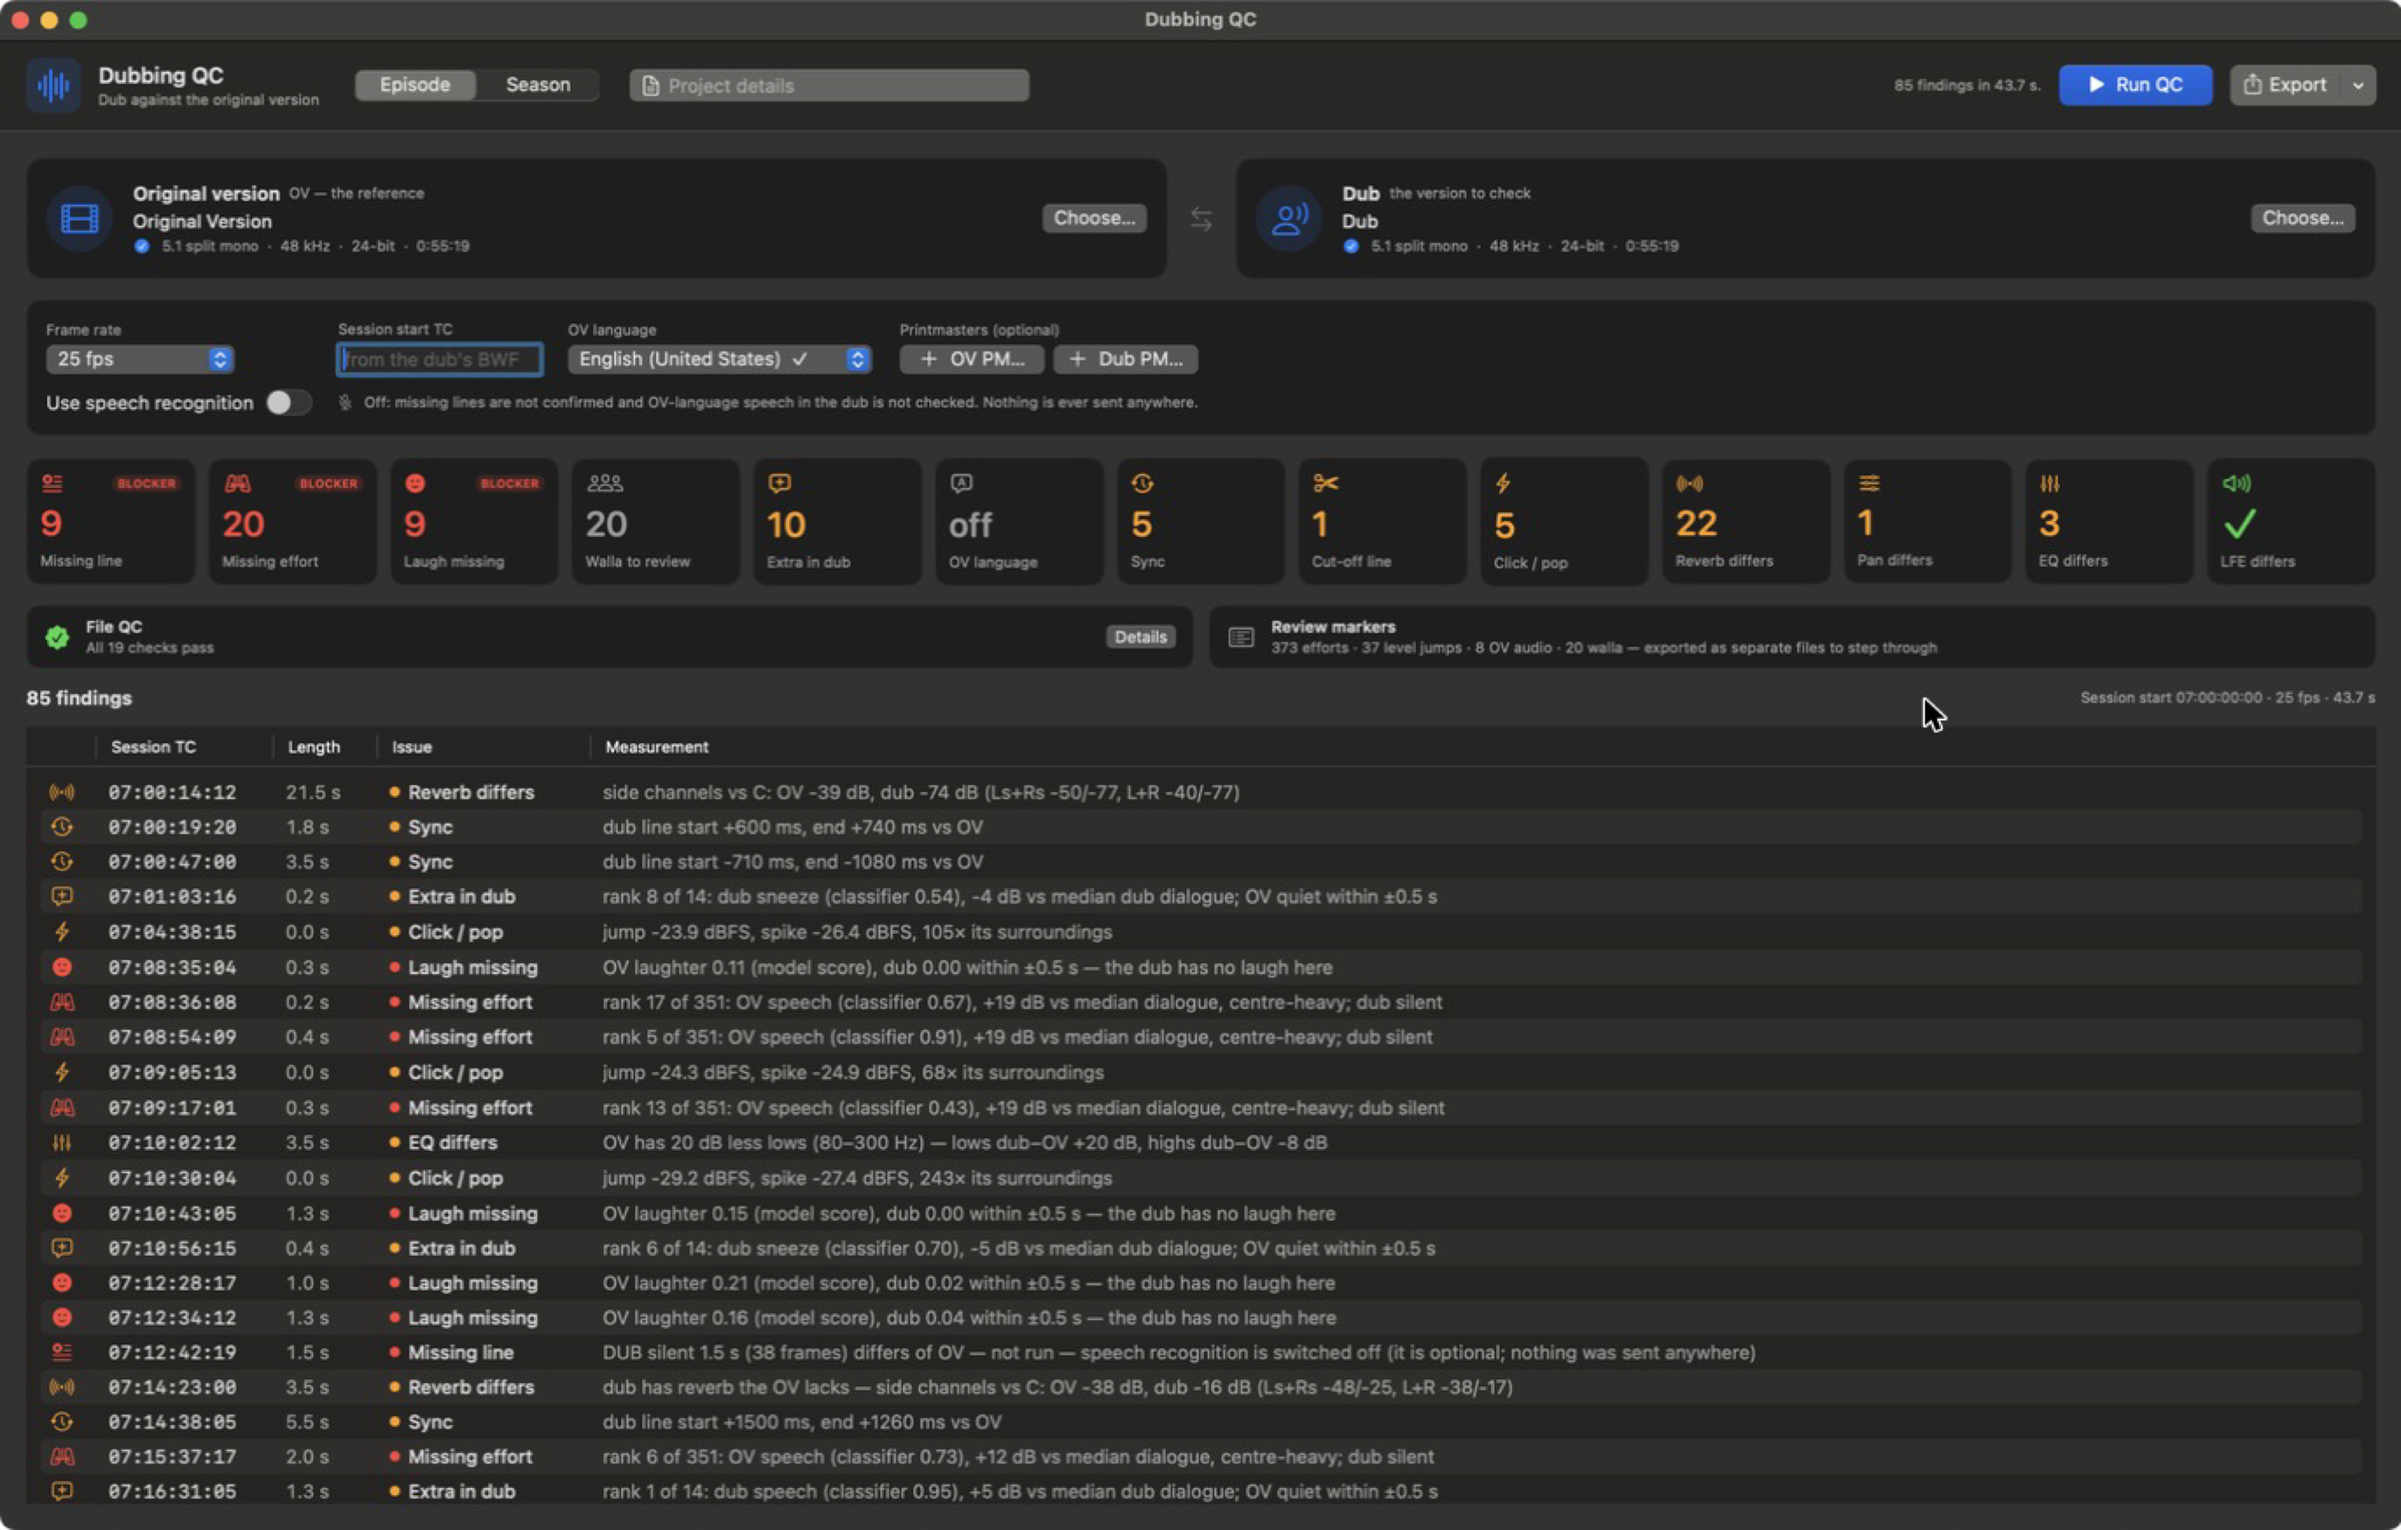
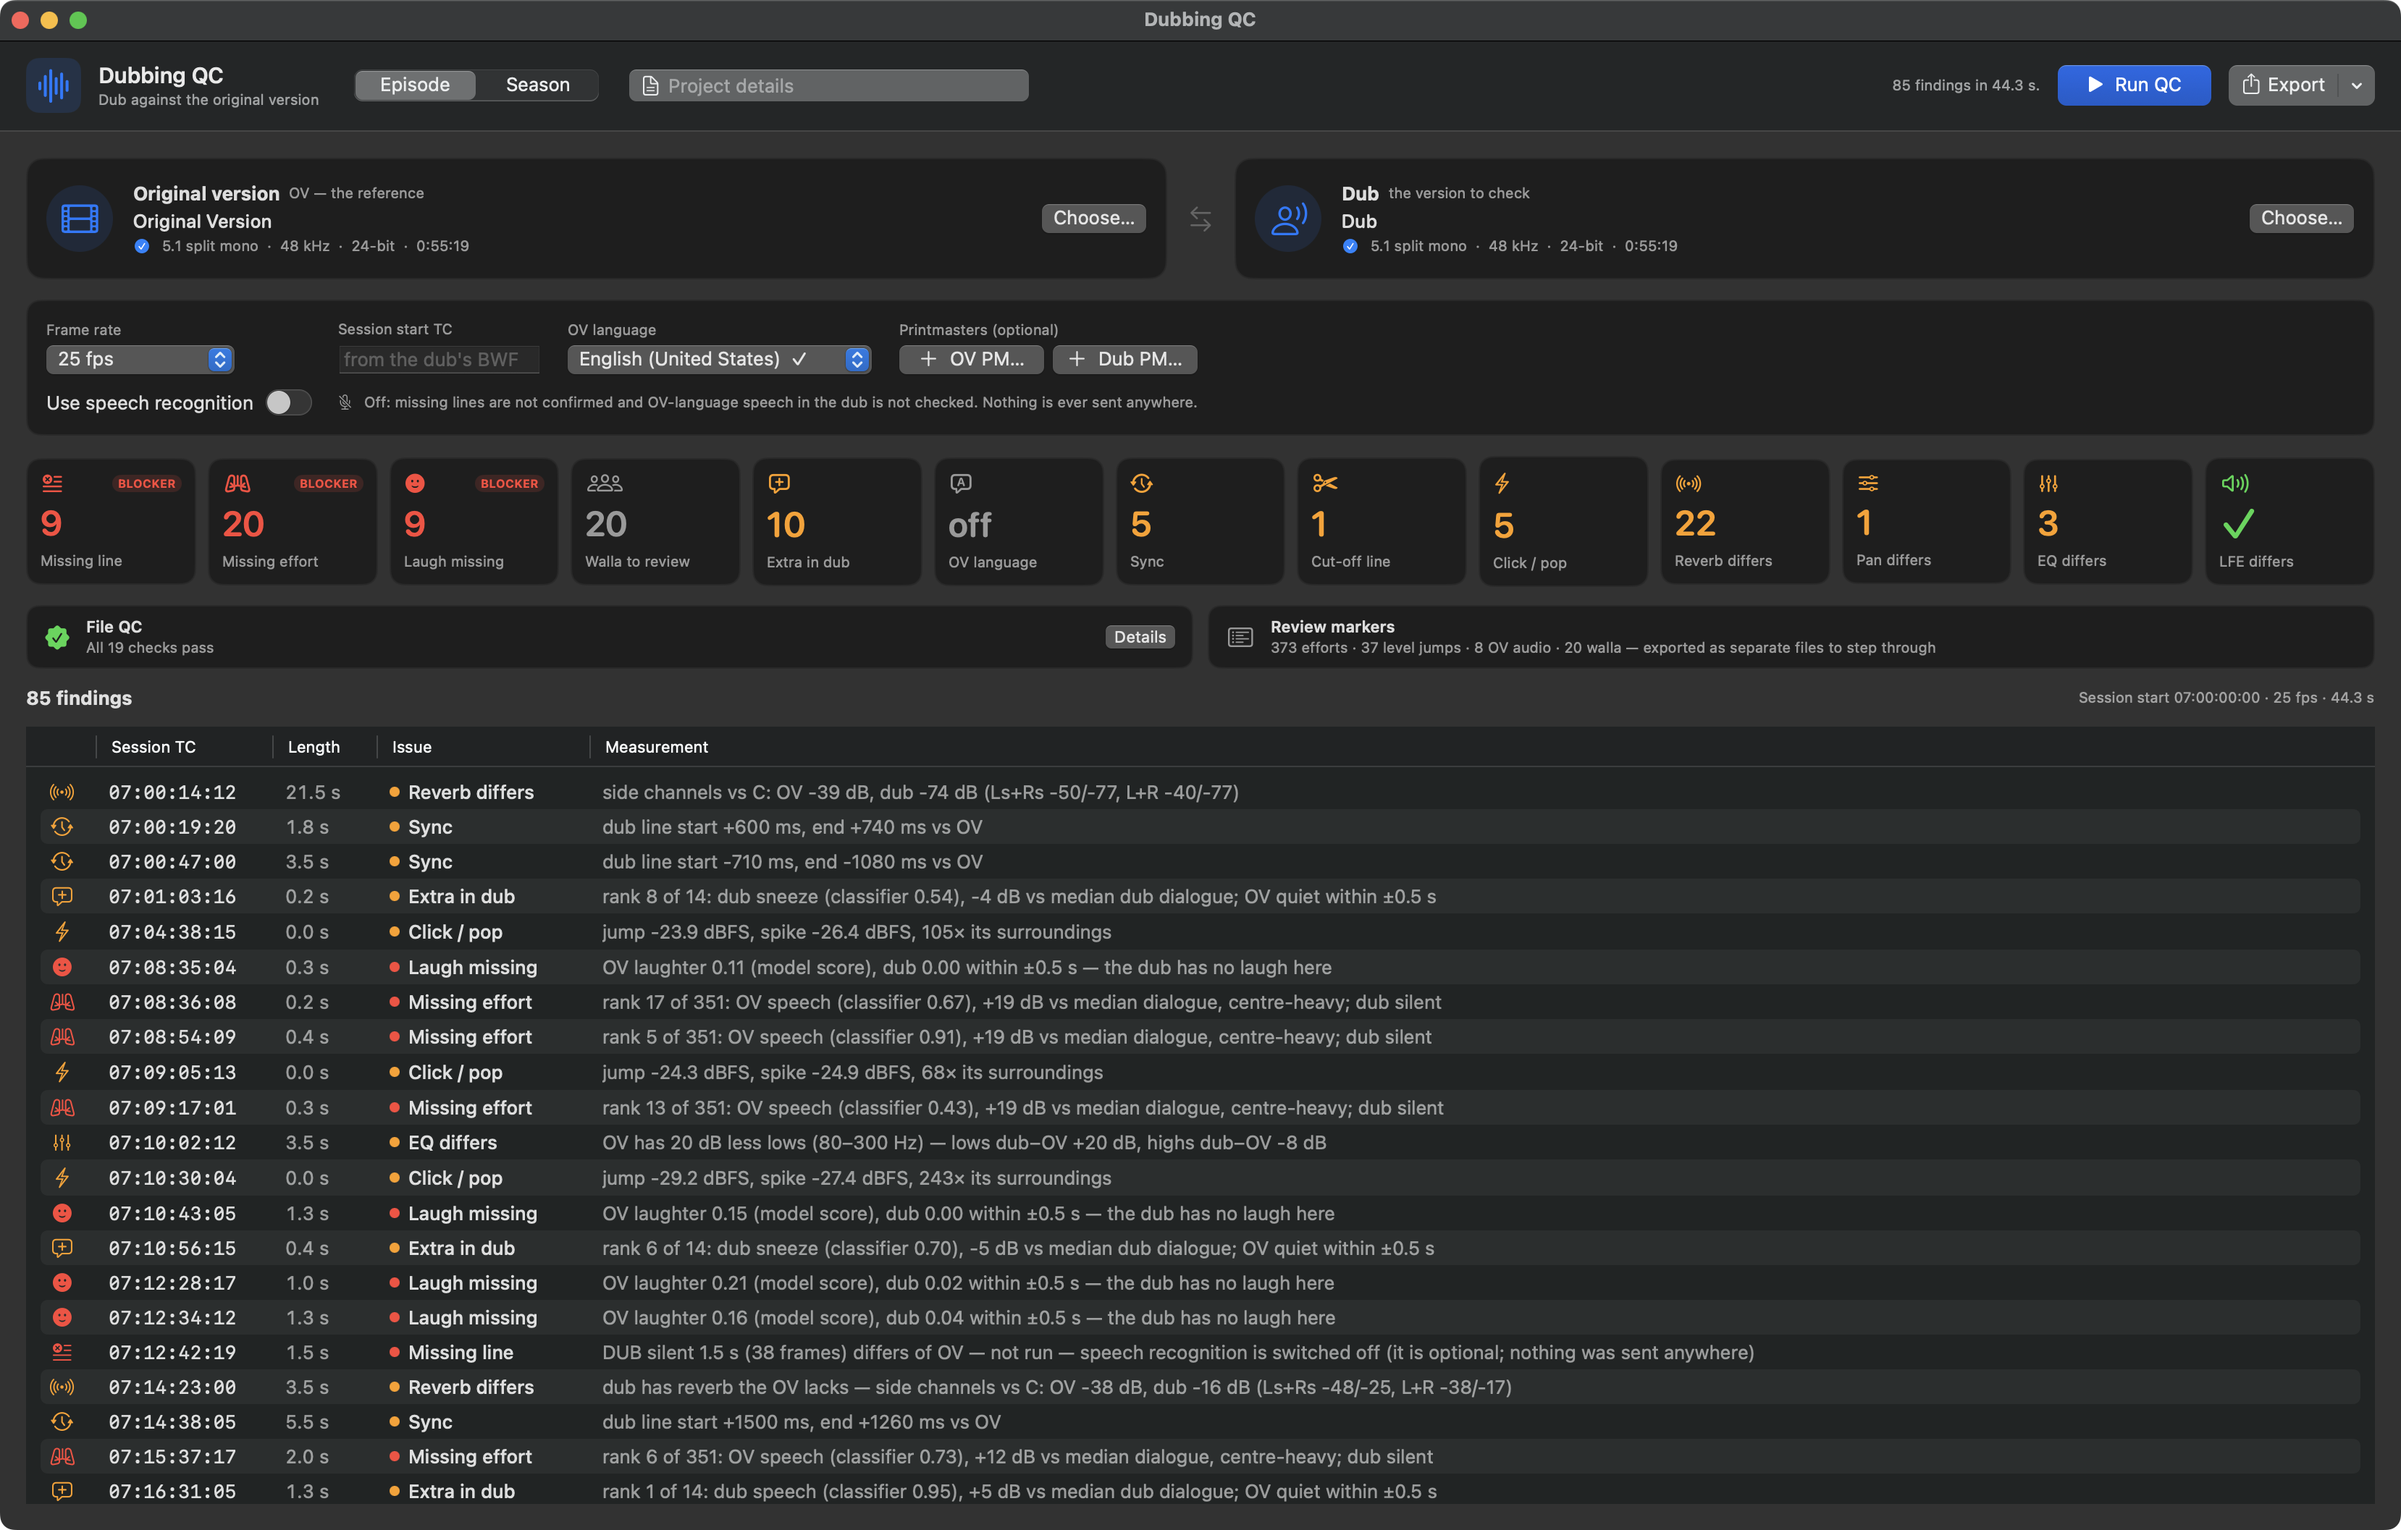
New native 2x screenshots: results (1.0.1), Season mode, File QC details

diff --git a/index.html b/index.html
@@ -84,6 +84,14 @@
         <li>Original-language audio or words left in the dub</li>
         <li>Printmaster sync and loudness against the OV</li>
       </ul>
+      <div class="shotwrap gallery two">
+        <a class="shot" href="shot-season.png" data-caption="Season mode: drop in one folder of episodes per side. Episodes pair by their episode code and run one after another, each saved as it finishes.">
+          <img src="shot-season.png" alt="Season mode: three episodes paired by episode code, each checked, with the first episode's results below." loading="lazy">
+        </a>
+        <a class="shot" href="shot-fileqc.png" data-caption="File QC: format, length, loudness, true peak and naming of the original and the dub, side by side.">
+          <img src="shot-fileqc.png" alt="File QC details: sample rate, channels, length, loudness and true peak of the original and the dub, side by side." loading="lazy">
+        </a>
+      </div>
     </div>
   </section>
 

diff --git a/style.css b/style.css
@@ -83,10 +83,11 @@ nav a.buy { color: var(--accent); font-weight: 600; }
 
 .shotwrap.gallery { display: grid; grid-template-columns: repeat(3, 1fr); gap: 18px; }
 .shotwrap.gallery .shotcap { grid-column: 1 / -1; }
+.shotwrap.gallery.two { grid-template-columns: repeat(2, 1fr); padding: 0; }
 a.shot { display: block; cursor: zoom-in; border-radius: 16px; }
 a.shot img { transition: transform 0.15s ease, box-shadow 0.15s ease; }
 a.shot:hover img { transform: translateY(-3px); box-shadow: 0 40px 90px rgba(20, 30, 24, 0.2); }
-@media (max-width: 760px) { .shotwrap.gallery { grid-template-columns: 1fr; } }
+@media (max-width: 760px) { .shotwrap.gallery, .shotwrap.gallery.two { grid-template-columns: 1fr; } }
 
 .lb {
   position: fixed; inset: 0; background: rgba(10, 16, 12, 0.92); display: none;
